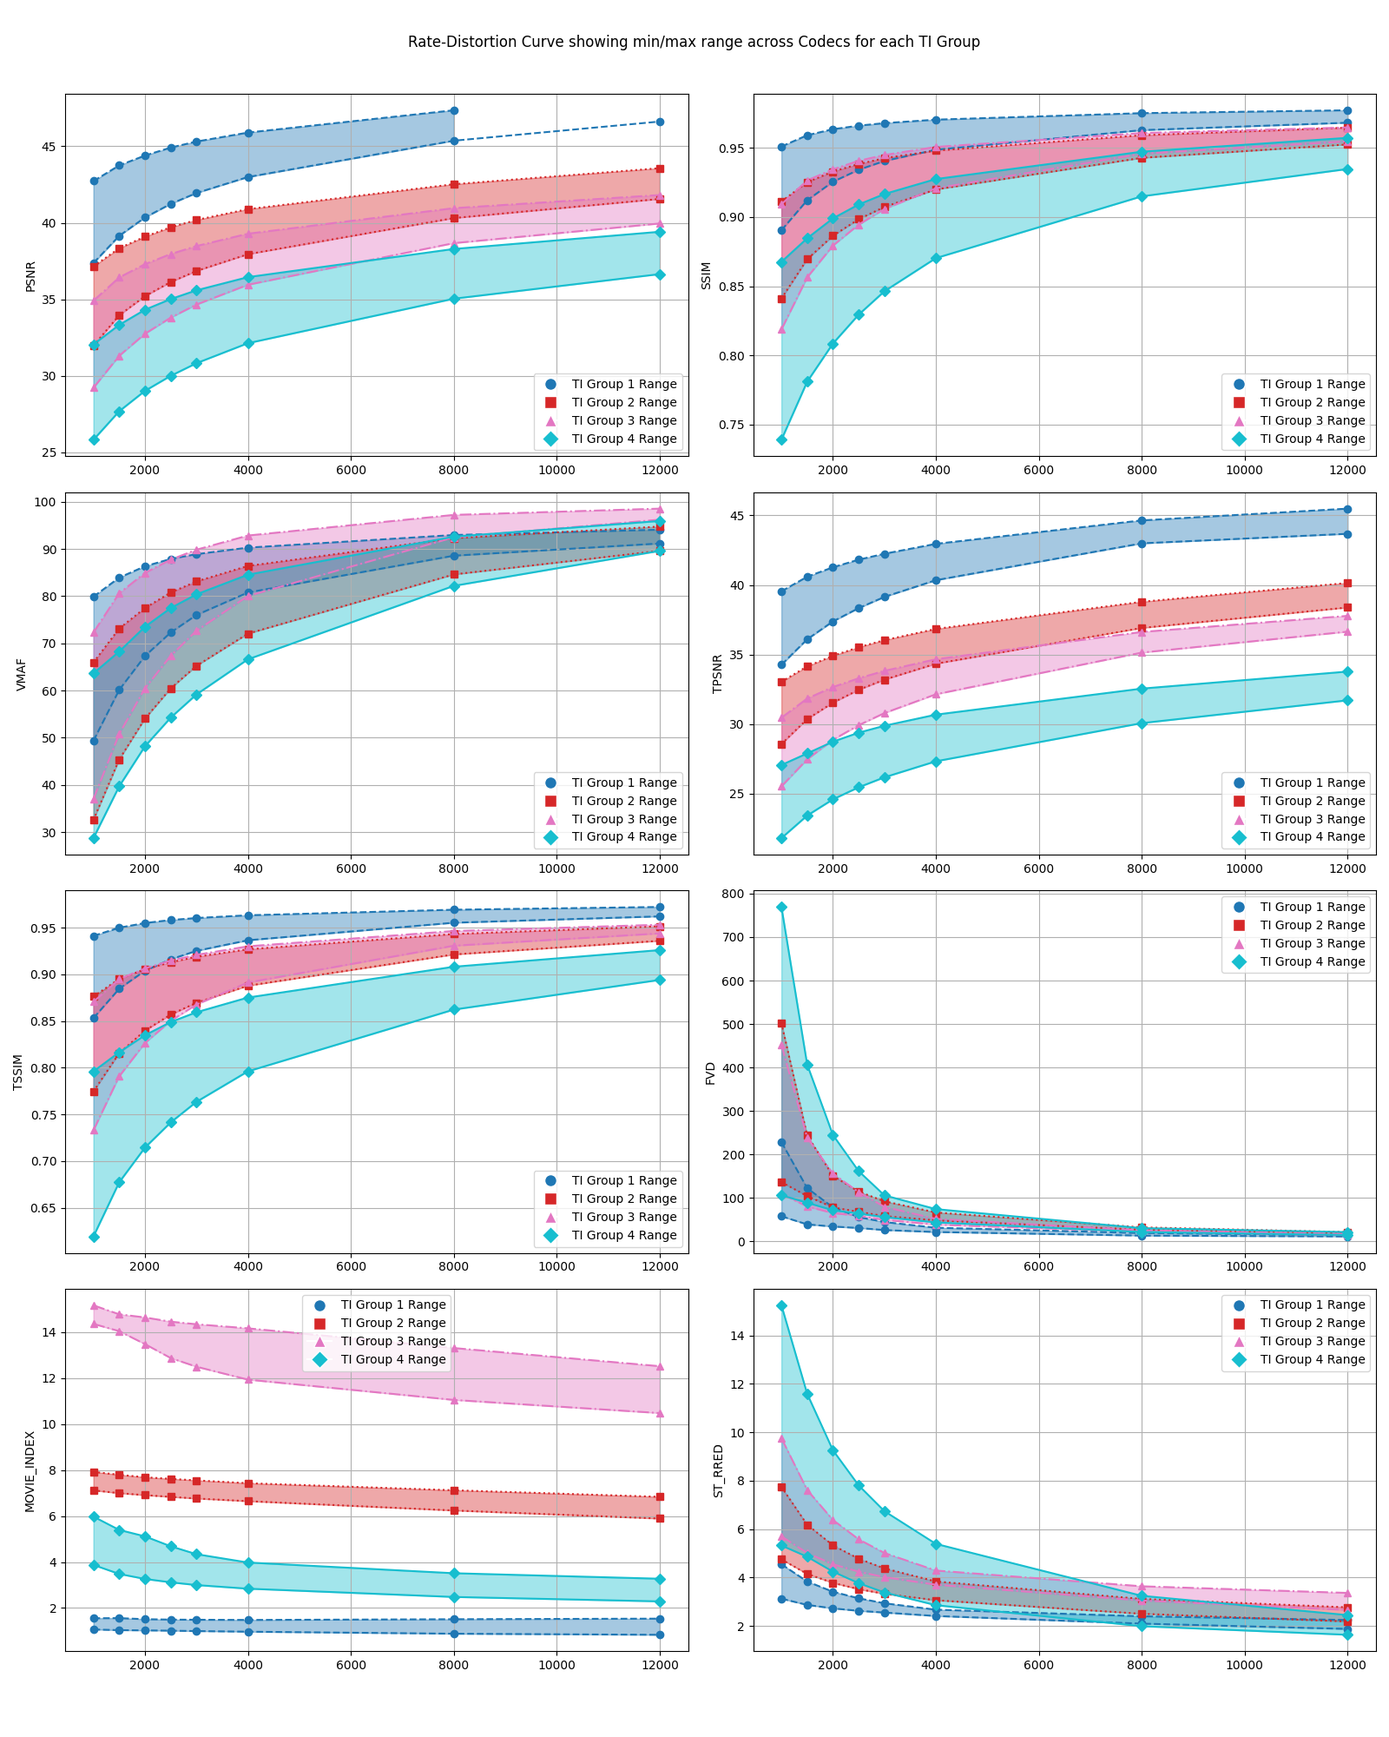
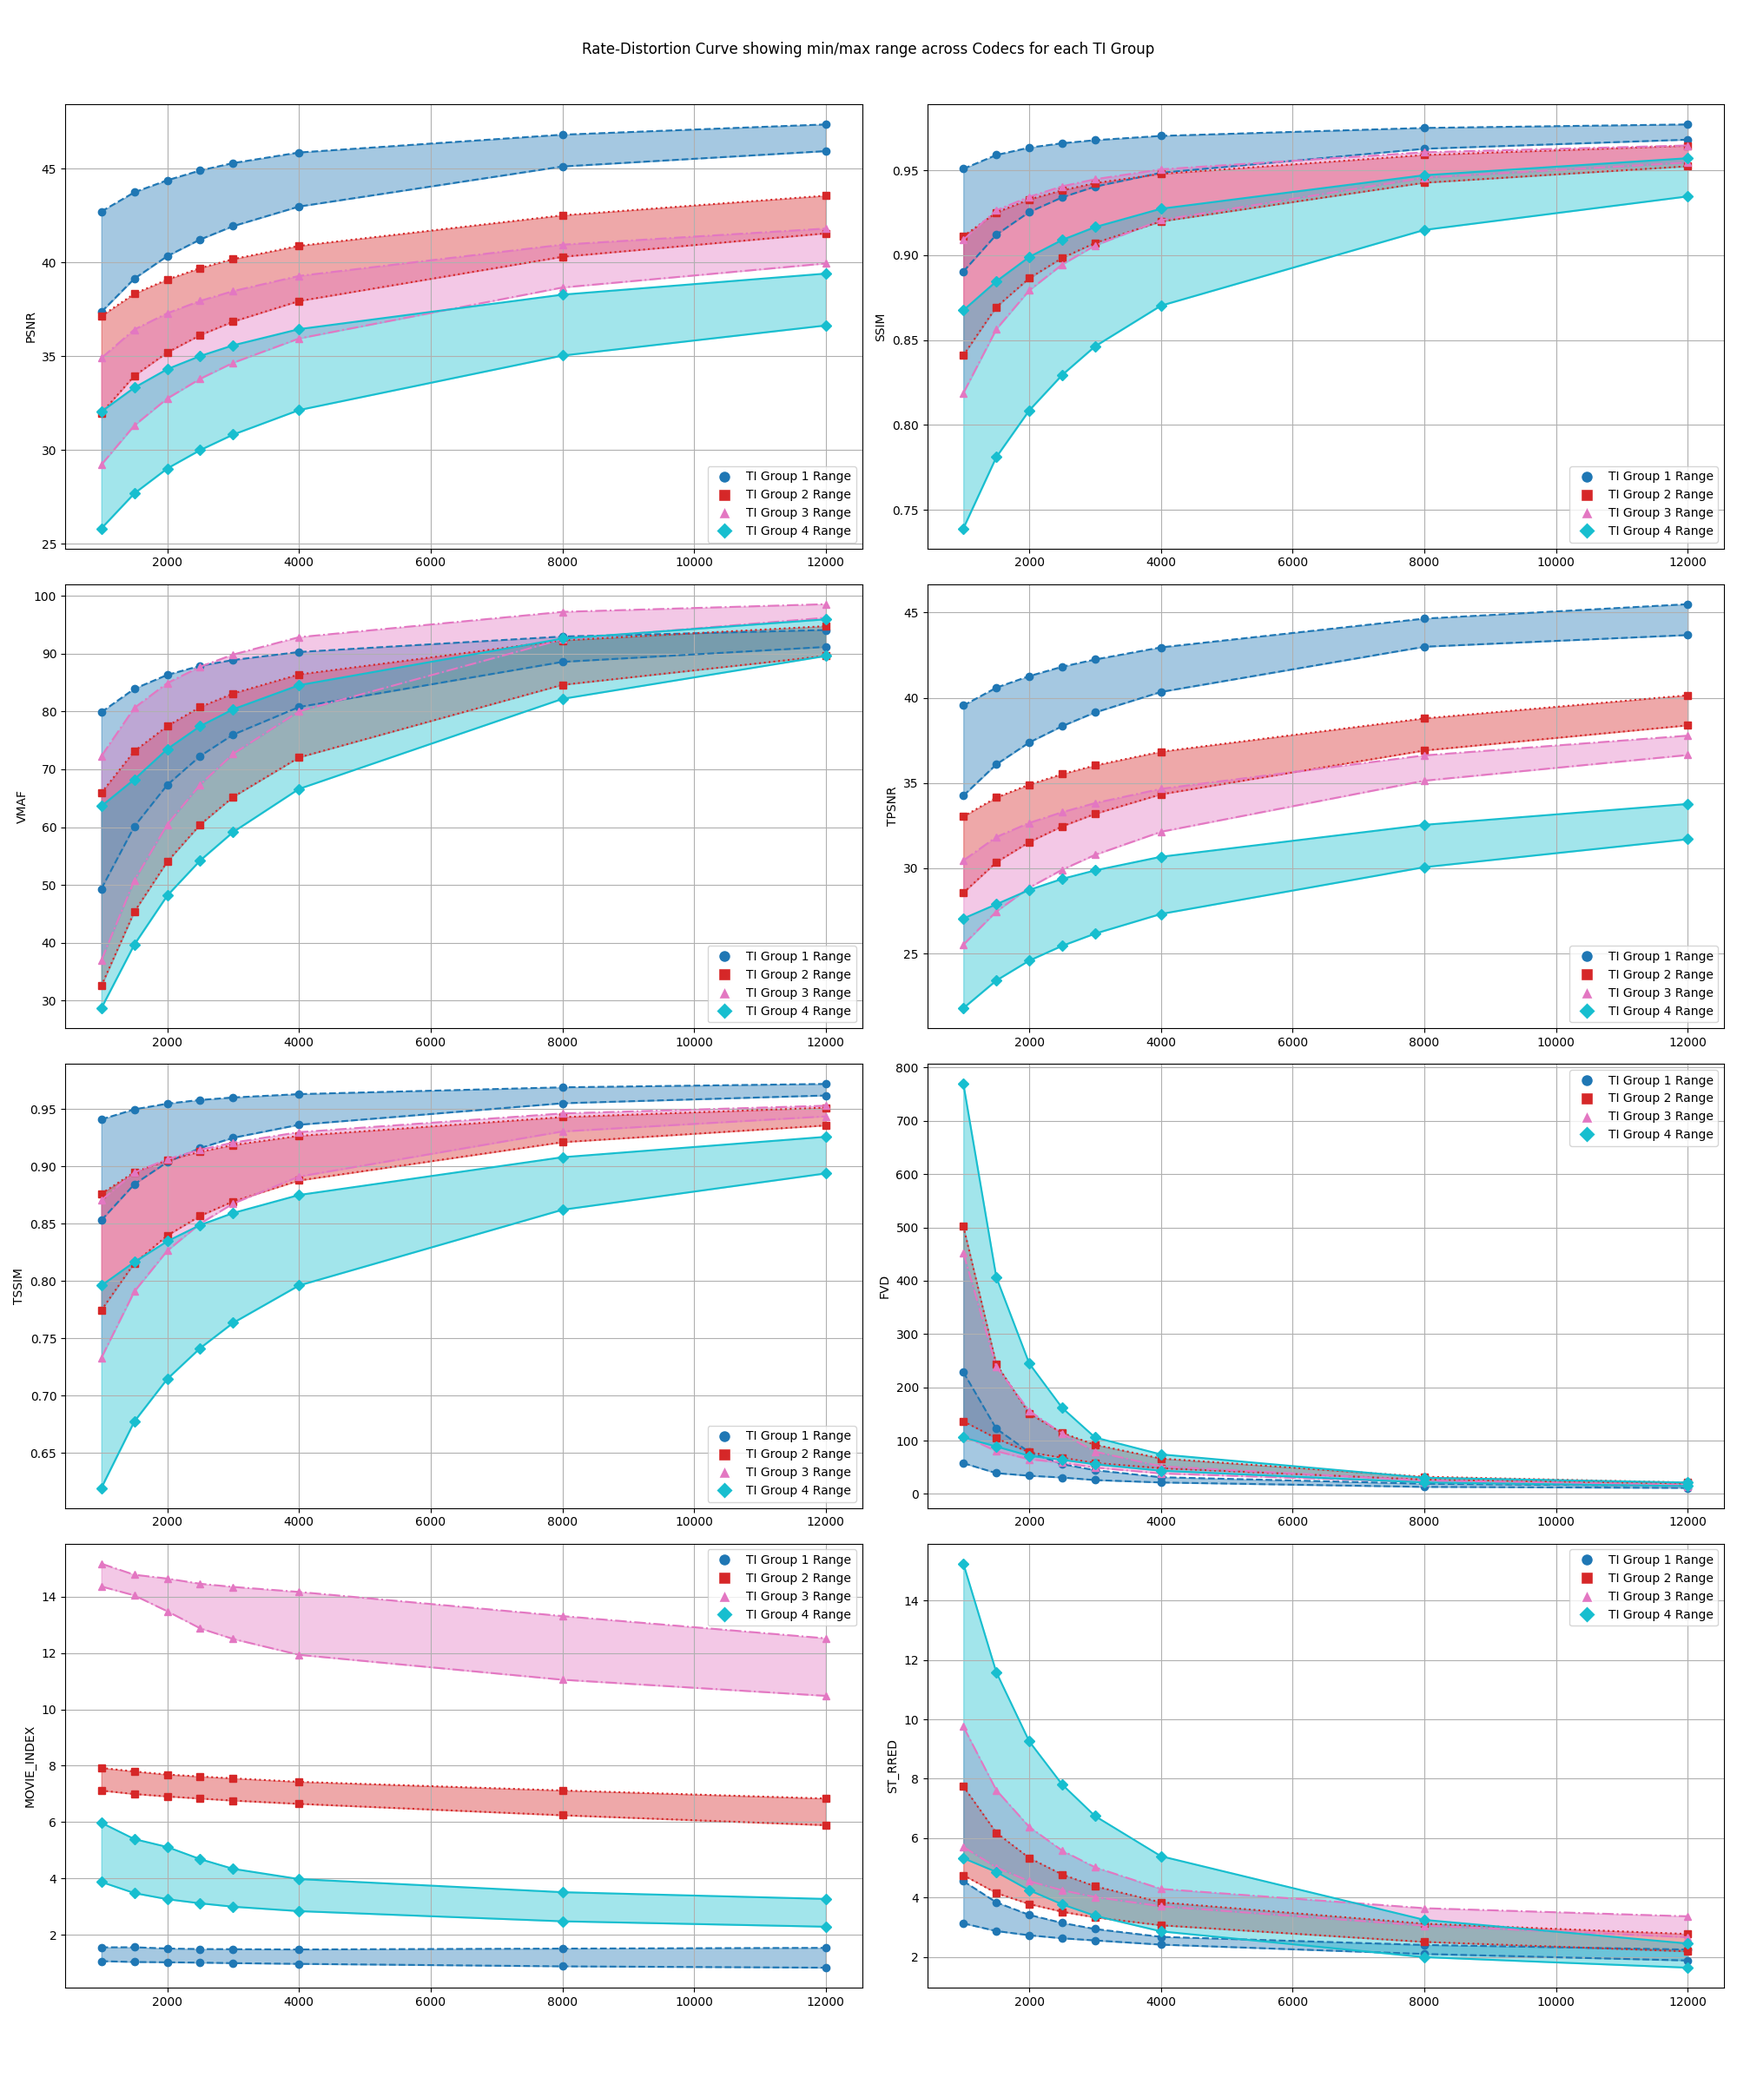
new visuals

diff --git a/visualizations/visualize_results_line.py b/visualizations/visualize_results_line.py
@@ -381,7 +381,9 @@ def visualize_results_by_TI_group_deviation_of_codecs(output_dir="visualizations
 
                         videos_by_first_word = [v[0].split("_")[0] for v in videos]
                         if video_name.split("_")[0] in videos_by_first_word:
-                            metrics_for_group[group_id][level]["psnr"].append(video_data["psnr"] if "psnr" in video_data else 0)
+                            if (video_data["psnr"] if "psnr" in video_data else 0) > 100 or (video_data["psnr"] if "psnr" in video_data else 0) <= 0:
+                                print(f"Warning: Unusual PSNR value {video_data['psnr']} for video {video_name}, codec {codec}, level {level}, dataset {dataset}")
+                            metrics_for_group[group_id][level]["psnr"].append(min(video_data["psnr"] if "psnr" in video_data else 0, 60))
                             metrics_for_group[group_id][level]["ssim"].append(video_data["ssim"] if "ssim" in video_data else 0)
                             metrics_for_group[group_id][level]["vmaf"].append(video_data["vmaf"] if "vmaf" in video_data else 0)
                             metrics_for_group[group_id][level]["tpsnr"].append(video_data["tpsnr"] if "tpsnr" in video_data else 0)
@@ -449,7 +451,7 @@ def visualize_results_by_TI_group_deviation_of_codecs(output_dir="visualizations
                 "st_rred": st_rred
             }
         # Now plot deviation of codecs per TI group on a single figure
-    plt.figure(figsize=(16, 20))
+    plt.figure(figsize=(20, 24))
     plt.suptitle("Rate-Distortion Curve showing min/max range across Codecs for each TI Group")
     kbps = [1000 * level for level in levels]
     metrics = ["psnr", "ssim", "vmaf", "tpsnr", "tssim", "fvd", "movie_index", "st_rred"]
@@ -471,6 +473,15 @@ def visualize_results_by_TI_group_deviation_of_codecs(output_dir="visualizations
             # Find min and max across codecs for each kbps level
             min_values = np.min(all_codec_metrics, axis=0)
             max_values = np.max(all_codec_metrics, axis=0)
+            # say if there is any nan value in min_values or max_values, print a warning
+            if np.isnan(min_values).any() or np.isnan(max_values).any():
+                print(f"Warning: NaN values found in min or max values for Group {group_id}, Metric {metric}")
+                # search for which codec and level has nan value
+                for codec in codecs:
+                    codec_metrics = result_per_codec[codec][group_id][metric]
+                    for level_idx, value in enumerate(codec_metrics):
+                        if np.isnan(value):
+                            print(f"NaN found for Codec {codec}, Group {group_id}, Metric {metric}, Level {levels[level_idx]}")
 
             # Plot the min and max lines for the current group
             ax.plot(kbps, min_values, marker=markers[j], linestyle=line_styles[j], color=color)
@@ -505,6 +516,7 @@ def visualize_results_by_TI_group_deviation_of_codecs(output_dir="visualizations
             
             # Find average across codecs for each kbps level
             avg_values = np.mean(all_codec_metrics, axis=0)
+            print(f"Group {group_id}, Metric {metric}, Avg Values: {avg_values}")
 
             # Plot the average line for the current group
             ax.plot(kbps, avg_values, marker=markers[j], linestyle=line_styles[j], color=color, label=f'TI Group {group_id} Average')
@@ -634,6 +646,7 @@ def visualize_results_by_video(output_dir="visualizations/plots_by_video"):
             os.makedirs(f"{output_dir}/{dataset}", exist_ok=True)
             plt.savefig(f"{output_dir}/{dataset}/{video_name}_rd_curve.png")
             plt.close()
+    
 
 if __name__ == "__main__":
     visualize_results_by_codec()

diff --git a/helper.py b/helper.py
@@ -1,0 +1,24 @@
+from ffmpeg_quality_metrics import FfmpegQualityMetrics
+import os
+
+def compute_video_metrics(original_video_path, compressed_video_path):
+    """
+    Compute video quality metrics between the original and compressed video.
+
+    Parameters:
+    original_video_path (str): Path to the original video file.
+    compressed_video_path (str): Path to the compressed video file.
+
+    Returns:
+    dict: A dictionary containing computed metrics such as PSNR, SSIM, VMAF, etc.
+    """
+    ffqm = FfmpegQualityMetrics(original_video_path, compressed_video_path,verbose=True,progress=True)
+    metrics = ffqm.calculate(["psnr"])
+    psnr_avg = sum([frame["psnr_avg"] for frame in metrics["psnr"]]) / len(metrics["psnr"])
+    return psnr_avg
+
+if __name__ == "__main__":
+    original_video = "videos/BVI-HD/PlasmaSlowRandom_1920x1080_60fps.mp4"
+    compressed_video = "compressed_videos/BVI-HD/vp9/12/PlasmaSlowRandom_1920x1080_60fps_vp9.webm"
+    psnr_value = compute_video_metrics(original_video, compressed_video)
+    print(f"Average PSNR: {min(psnr_value,60)}")
